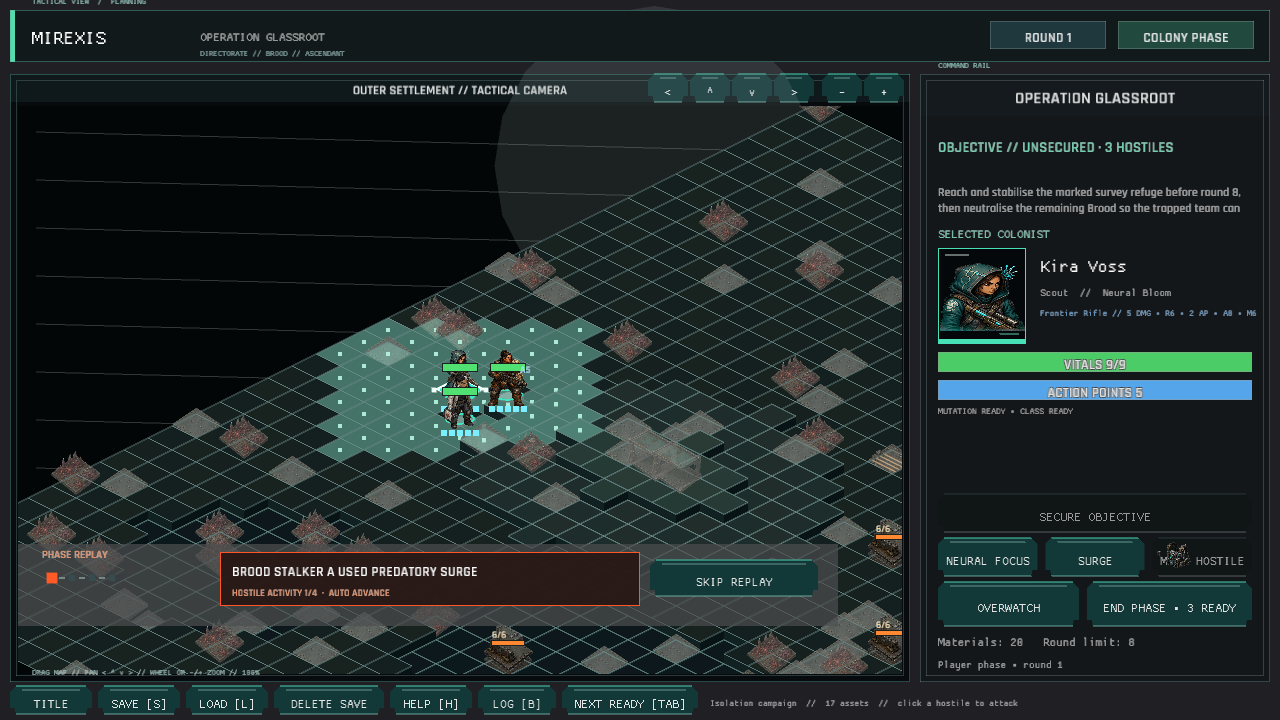
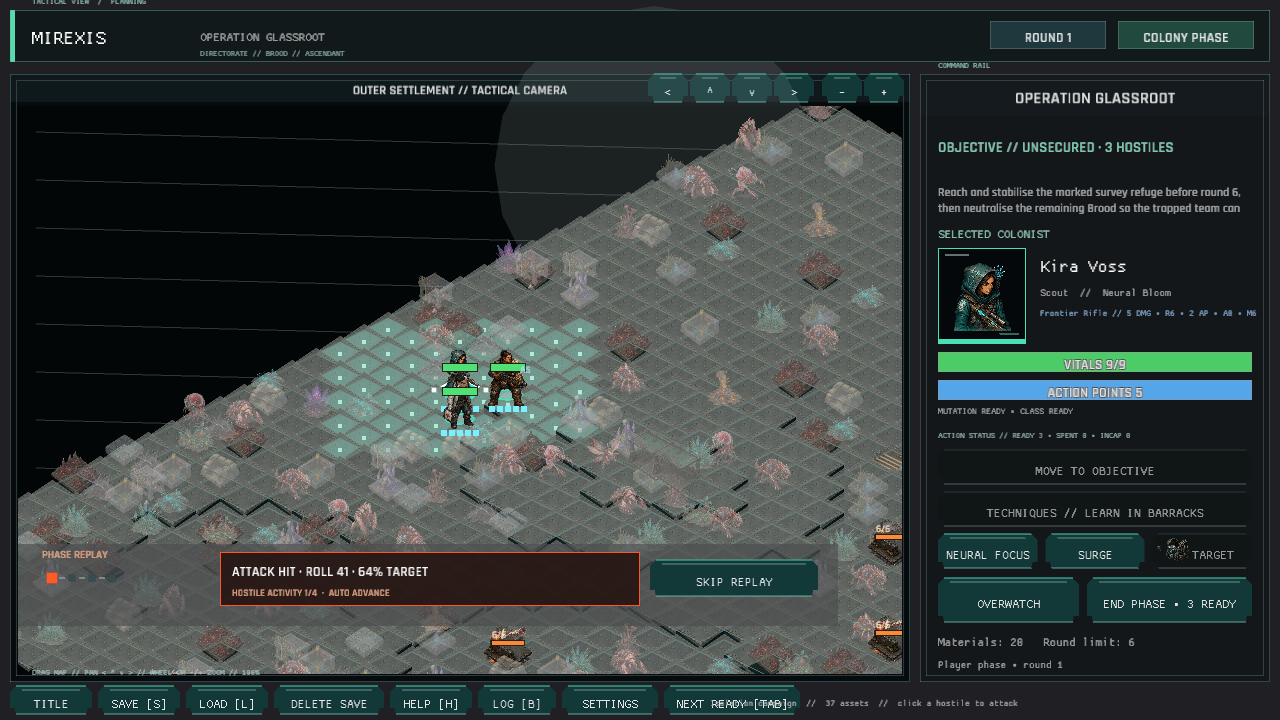
The field chronicle names every strike that lands or fails (battle history outcome summaries)
The battle history and hostile replay exposed attack rolls without telling the player whether each strike connected. Derive HIT or MISS from the same roll threshold used by combat resolution, preserve the roll and target chance for inspection, and seed both canonical captures with representative outcomes.

Keep the capture fixture with the tactical capture helpers, refresh the history and replay evidence, and bump content to 1.191.0. Verified with 488 tests, strict Clippy, formatting, source-size and diff checks, the 100-scene capture audit, the parameterless publisher, and a live preview smoke pass.

Changed region(s): [[0.0, 0.1528, 0.9688, 1.0], [0.75, 0.5806, 0.875, 0.6111], [0.8125, 0.6417, 0.9062, 0.6722]]

diff --git a/src/game/capture_tactical.rs b/src/game/capture_tactical.rs
@@ -267,6 +267,12 @@ impl Game {
     pub(super) fn capture_phase_replay(&mut self) {
         self.reset_capture_session(AppState::Tactical);
         self.phase_replay.hold_for_capture(&[
+            BattleEvent::AttackRolled {
+                attacker_id: "brood_stalker_b".to_owned(),
+                target_id: "kira_voss".to_owned(),
+                roll: 41,
+                hit_chance: 64,
+            },
             BattleEvent::EnemyAbilityActivated {
                 unit_id: "brood_stalker_a".to_owned(),
                 ability: "Predatory Surge".to_owned(),
@@ -276,17 +282,36 @@ impl Game {
                 path: vec![TilePos::new(9, 2), TilePos::new(8, 2)],
                 cost: 2,
             },
-            BattleEvent::AttackRolled {
-                attacker_id: "brood_stalker_b".to_owned(),
-                target_id: "kira_voss".to_owned(),
-                roll: 41,
-                hit_chance: 64,
-            },
             BattleEvent::PhaseStarted {
                 phase: TacticalPhase::Player,
                 round: 2,
             },
         ]);
+    }
+
+    pub(super) fn capture_battle_log(&mut self) {
+        self.reset_capture_session(AppState::Tactical);
+        self.session.end_player_phase(&self.data.config);
+        self.session.tactical.event_log.extend([
+            BattleEvent::AttackRolled {
+                attacker_id: "mara_venn".to_owned(),
+                target_id: "brood_stalker_a".to_owned(),
+                roll: 41,
+                hit_chance: 64,
+            },
+            BattleEvent::DamageApplied {
+                target_id: "brood_stalker_a".to_owned(),
+                amount: 3,
+                remaining: 5,
+            },
+            BattleEvent::AttackRolled {
+                attacker_id: "kira_voss".to_owned(),
+                target_id: "brood_stalker_b".to_owned(),
+                roll: 96,
+                hit_chance: 62,
+            },
+        ]);
+        self.show_battle_log = true;
     }
 
     pub(super) fn capture_combat_feedback(&mut self) {

diff --git a/src/ui_widgets/tests.rs b/src/ui_widgets/tests.rs
@@ -25,6 +25,25 @@ fn action_button_label_explains_target_gates_without_hiding_cancel() {
 }
 
 #[test]
+fn attack_event_summaries_name_hit_and_miss_outcomes() {
+    let hit = BattleEvent::AttackRolled {
+        attacker_id: "mara_venn".to_owned(),
+        target_id: "brood_stalker_a".to_owned(),
+        roll: 41,
+        hit_chance: 64,
+    };
+    let miss = BattleEvent::AttackRolled {
+        attacker_id: "mara_venn".to_owned(),
+        target_id: "brood_stalker_a".to_owned(),
+        roll: 65,
+        hit_chance: 64,
+    };
+
+    assert_eq!(event_summary(&hit), "Attack HIT · roll 41 · 64% target");
+    assert_eq!(event_summary(&miss), "Attack MISS · roll 65 · 64% target");
+}
+
+#[test]
 fn active_statuses_name_their_remaining_phase_duration() {
     let definition = UnitDef {
         id: "status_test".to_owned(),

diff --git a/src/ui_widgets.rs b/src/ui_widgets.rs
@@ -12,7 +12,13 @@ pub(crate) fn event_summary(event: &BattleEvent) -> String {
         BattleEvent::UnitMoved { unit_id, cost, .. } => format!("{} moved · {} AP", unit_id, cost),
         BattleEvent::AttackRolled {
             roll, hit_chance, ..
-        } => format!("Attack roll {} · {}% target", roll, hit_chance),
+        } => {
+            let outcome = if roll <= hit_chance { "HIT" } else { "MISS" };
+            format!(
+                "Attack {} · roll {} · {}% target",
+                outcome, roll, hit_chance
+            )
+        }
         BattleEvent::DamageApplied {
             amount, remaining, ..
         } => format!("{} damage · {} vitality remains", amount, remaining),

diff --git a/src/game/capture_scenes.rs b/src/game/capture_scenes.rs
@@ -84,11 +84,7 @@ impl Game {
             "first_hour_dialogue" => self.capture_first_hour_dialogue(),
             "first_hour_promise" => self.capture_first_hour_promise(),
             "first_hour_operations" => self.capture_first_hour_operations(),
-            "battle_log" => {
-                self.reset_capture_session(AppState::Tactical);
-                self.session.end_player_phase(&self.data.config);
-                self.show_battle_log = true;
-            }
+            "battle_log" => self.capture_battle_log(),
             "combat_feedback" => self.capture_combat_feedback(),
             "phase_replay" => self.capture_phase_replay(),
             "end_phase_guard" => {

diff --git a/docs/verification/FINAL_CAPTURE_INVENTORY.md b/docs/verification/FINAL_CAPTURE_INVENTORY.md
@@ -30,6 +30,7 @@ Manifest: `scripts/capture_ui.ps1`
 - `ui_first_hour_dialogue.png`: required first-hour conversations focus the visible CONTINUE control after the target speaker opens.
 - `ui_first_hour_promise.png`: the promise beat distinguishes a hardened outer route from a second-operation breach and focuses CONTINUE CAMPAIGN before continuation.
 - `ui_first_hour_operations.png`: guided colony handoff keeps the next mission briefing and active preparation visible inside the open Operations drawer.
+- `ui_battle_log.png` and `ui_phase_replay.png`: attack history and hostile replay beats name HIT/MISS outcomes alongside the underlying roll and target chance.
 - `ui_combat_feedback.png`: hit, miss, critical, damage, recovery, objective, and cover callouts remain anchored to their affected field locations.
 - `ui_construction.png`: placement blueprint and reserved resources remain visible at fixed building scale.
 
@@ -117,9 +118,9 @@ Manifest: `scripts/capture_ui.ps1`
[11 lines of base64/hex data omitted]

diff --git a/docs/verification/UI_GRAPHICS_ACCEPTANCE_MATRIX.md b/docs/verification/UI_GRAPHICS_ACCEPTANCE_MATRIX.md
@@ -142,9 +142,9 @@ Each row must have a post-overhaul PNG in the final capture directory and pass t
 | first_hour_dialogue | First-hour conversation handoff | Required conversation has no focus cue on the visible CONTINUE control | `ui_first_hour_dialogue.png` | PASS |
 | first_hour_promise | First-hour promise consequence | Second-operation consequence and the required CONTINUE CAMPAIGN control lack a guided focus cue | `ui_first_hour_promise.png` | PASS |
 | first_hour_operations | First-hour colony handoff | Operations drawer does not make the next briefing action obvious | `ui_first_hour_operations.png` | PASS |
-| battle_log | Battle log | Chronological event history with touch-visible semantic filters | `ui_battle_log.png` | PASS |
+| battle_log | Battle log | Chronological event history reports raw attack rolls without naming HIT/MISS outcomes | `ui_battle_log.png` | PASS |
 | combat_feedback | Tactical/feedback | Impact/recoil/critical and miss treatment lack anchored result labels | `ui_combat_feedback.png` | PASS |
-| phase_replay | Tactical/replay | Weak replay staging | `ui_phase_replay.png` | PASS |
+| phase_replay | Tactical/replay | Replay beat reports raw attack rolls without naming HIT/MISS outcomes | `ui_phase_replay.png` | PASS |
 | end_phase_guard | Tactical/warning | Warning hierarchy is small | `ui_end_phase_guard.png` | PASS |
 | readiness_markers | Tactical/unit state | Tiny state markers | `ui_readiness_markers.png` | PASS |
 | vitality_markers | Tactical/unit state | Tiny state markers | `ui_vitality_markers.png` | PASS |

diff --git a/docs/PHASE_1_HARDENING.md b/docs/PHASE_1_HARDENING.md
@@ -31,7 +31,7 @@ Status: automated and internal verification complete; external playtests pending
 
 ## Automated verification baseline
 
-- 487 Mirexis unit tests pass, including deployment-row affordance coverage for full,
+- 488 Mirexis unit tests pass, including deployment-row affordance coverage for full,
   minimum, and recovering squads, construction availability coverage for unlocks,
   materials, and unique projects, effective repair-cost affordability coverage, and
   tactical equipment cancellation coverage, invalid-target persistence coverage, and
@@ -49,6 +49,7 @@ Status: automated and internal verification complete; external playtests pending
   objective-interaction, replay-skip, end-phase geometry, readiness-summary, hit-impact,
   incapacitation, objective-completion, extraction-completion, objective-damage, and
   cover-outcome feedback,
+  attack-outcome event-summary coverage,
   debrief-return, dialogue-continue, advance-control, and briefing-deployment focus
   coverage, and campaign decision resource-gate
   label coverage, facility-upgrade blocker-label coverage, first-hour investment

diff --git a/docs/PHASE_1_ACCEPTANCE_MATRIX.md b/docs/PHASE_1_ACCEPTANCE_MATRIX.md
@@ -1,7 +1,7 @@
 # Phase 1 Acceptance Matrix
 
 Status: implementation evidence audited; observed-session gates pending
-Audit baseline: save/content 1.190.0, validated and committed with this matrix
+Audit baseline: save/content 1.191.0, validated and committed with this matrix
 
 This matrix maps every Phase 1 workstream and definition-of-done requirement to
 authoritative evidence. `VERIFIED` means code, tests, captures, or an operator-run path
